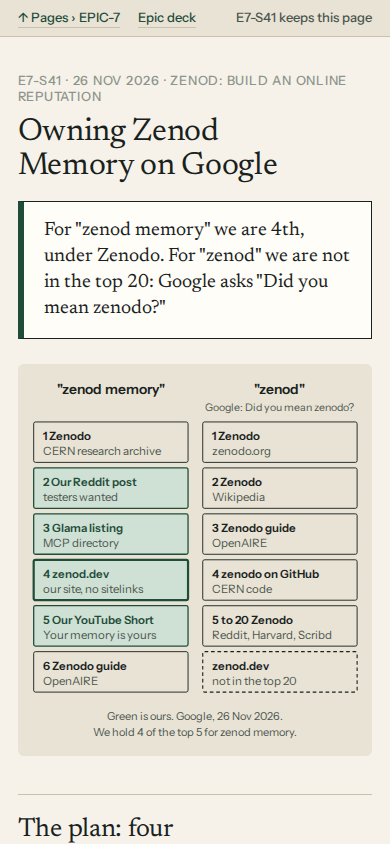
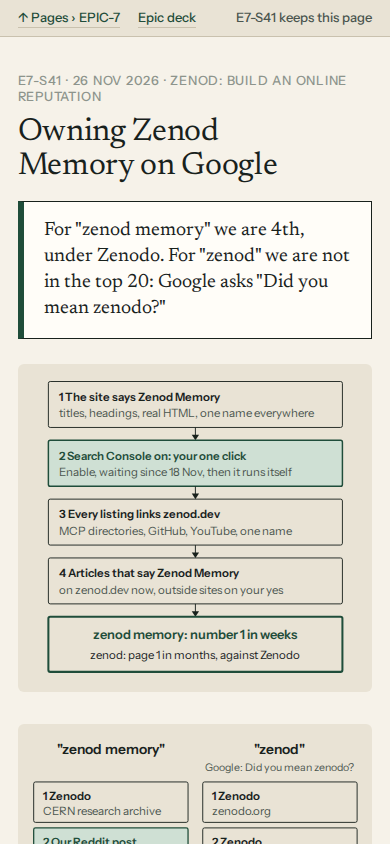
E7-S41: plan picture first, short steps, card source and decision tightened
Run: run_8029ae52-0fcd-494d-bfc3-eb10792b6537

Changed region(s): [[0.0615, 0.4313, 0.9231, 1.0]]

diff --git a/docs/evidence/e7-s41/page.html b/docs/evidence/e7-s41/page.html
@@ -14,6 +14,21 @@
 <header class="ps-head"><p class="ps-kicker">E7-S41 · 26 Nov 2026 · Zenod: Build an online reputation</p><h1>Owning Zenod Memory on Google</h1></header>
 <p class="ps-punch">For "zenod memory" we are 4th, under Zenodo. For "zenod" we are not in the top 20: Google asks "Did you mean zenodo?"</p>
 
+<section id="plan">
+<figure class="ps-diagram"><div style="max-width:560px;margin:0 auto">
+<svg viewBox="0 0 360 330" role="img" aria-label="Plan in a line: 1 site says Zenod Memory, 2 Search Console on, your one click, 3 every listing links zenod.dev, 4 articles that say Zenod Memory, then zenod memory number 1 in weeks and zenod page 1 in months." style="max-width:100%;height:auto;display:block;font-family:inherit">
+<g font-size="12.5">
+<rect x="20" y="6" width="320" height="50" rx="2" fill="none" stroke="currentColor" stroke-width="1"/><text x="32" y="27" font-weight="600" fill="currentColor">1  The site says Zenod Memory</text><text x="32" y="45" fill="var(--muted,#8a8378)">titles, headings, real HTML, one name everywhere</text>
+<path d="M180 56 V68" stroke="currentColor"/><path d="M176 64 L180 70 L184 64" fill="currentColor"/>
+<rect x="20" y="70" width="320" height="50" rx="2" fill="var(--accent-soft,#e3ece6)" stroke="var(--accent,#2f5d4a)" stroke-width="1.6"/><text x="32" y="91" font-weight="600" fill="var(--accent,#2f5d4a)">2  Search Console on: your one click</text><text x="32" y="109" fill="var(--muted,#8a8378)">Enable, waiting since 18 Nov, then it runs itself</text>
+<path d="M180 120 V132" stroke="currentColor"/><path d="M176 128 L180 134 L184 128" fill="currentColor"/>
+<rect x="20" y="134" width="320" height="50" rx="2" fill="none" stroke="currentColor" stroke-width="1"/><text x="32" y="155" font-weight="600" fill="currentColor">3  Every listing links zenod.dev</text><text x="32" y="173" fill="var(--muted,#8a8378)">MCP directories, GitHub, YouTube, one name</text>
+<path d="M180 184 V196" stroke="currentColor"/><path d="M176 192 L180 198 L184 192" fill="currentColor"/>
+<rect x="20" y="198" width="320" height="50" rx="2" fill="none" stroke="currentColor" stroke-width="1"/><text x="32" y="219" font-weight="600" fill="currentColor">4  Articles that say Zenod Memory</text><text x="32" y="237" fill="var(--muted,#8a8378)">on zenod.dev now, outside sites on your yes</text>
+<path d="M180 248 V260" stroke="currentColor"/><path d="M176 256 L180 262 L184 256" fill="currentColor"/>
+<rect x="20" y="262" width="320" height="60" rx="2" fill="none" stroke="var(--accent,#2f5d4a)" stroke-width="2.2"/><text x="180" y="286" text-anchor="middle" font-weight="600" font-size="14" fill="var(--accent,#2f5d4a)">zenod memory: number 1 in weeks</text><text x="180" y="308" text-anchor="middle" fill="currentColor">zenod: page 1 in months, against Zenodo</text>
+</g></svg></div></figure>
+</section>
 <section id="answer">
 <figure class="ps-diagram"><div style="max-width:560px;margin:0 auto">
 <svg viewBox="0 0 360 400" role="img" aria-label="Google today. zenod memory: 1 Zenodo, 2 our Reddit tester post, 3 our Glama listing, 4 zenod.dev, 5 our YouTube Short. zenod: Google suggests zenodo, top six all Zenodo, zenod.dev not in the top 20." style="max-width:100%;height:auto;display:block;font-family:inherit">
@@ -40,39 +55,37 @@
 <text x="180" y="392" text-anchor="middle" font-size="12" fill="var(--muted,#8a8378)">We hold 4 of the top 5 for zenod memory.</text>
 </svg></div></figure>
 </section>
-
-<section id="plan">
-<h2>The plan: four moves, one needs you</h2>
-<figure class="ps-diagram"><div style="max-width:560px;margin:0 auto">
-<svg viewBox="0 0 360 330" role="img" aria-label="Plan in a line: 1 site says Zenod Memory, 2 Search Console on, your one click, 3 every listing links zenod.dev, 4 articles that say Zenod Memory, then zenod memory number 1 in weeks and zenod page 1 in months." style="max-width:100%;height:auto;display:block;font-family:inherit">
-<g font-size="12.5">
-<rect x="20" y="6" width="320" height="50" rx="2" fill="none" stroke="currentColor" stroke-width="1"/><text x="32" y="27" font-weight="600" fill="currentColor">1  The site says Zenod Memory</text><text x="32" y="45" fill="var(--muted,#8a8378)">titles, headings, real HTML, one name everywhere</text>
-<path d="M180 56 V68" stroke="currentColor"/><path d="M176 64 L180 70 L184 64" fill="currentColor"/>
-<rect x="20" y="70" width="320" height="50" rx="2" fill="var(--accent-soft,#e3ece6)" stroke="var(--accent,#2f5d4a)" stroke-width="1.6"/><text x="32" y="91" font-weight="600" fill="var(--accent,#2f5d4a)">2  Search Console on: your one click</text><text x="32" y="109" fill="var(--muted,#8a8378)">Enable, waiting since 18 Nov, then it runs itself</text>
-<path d="M180 120 V132" stroke="currentColor"/><path d="M176 128 L180 134 L184 128" fill="currentColor"/>
-<rect x="20" y="134" width="320" height="50" rx="2" fill="none" stroke="currentColor" stroke-width="1"/><text x="32" y="155" font-weight="600" fill="currentColor">3  Every listing links zenod.dev</text><text x="32" y="173" fill="var(--muted,#8a8378)">MCP directories, GitHub, YouTube, one name</text>
-<path d="M180 184 V196" stroke="currentColor"/><path d="M176 192 L180 198 L184 192" fill="currentColor"/>
-<rect x="20" y="198" width="320" height="50" rx="2" fill="none" stroke="currentColor" stroke-width="1"/><text x="32" y="219" font-weight="600" fill="currentColor">4  Articles that say Zenod Memory</text><text x="32" y="237" fill="var(--muted,#8a8378)">on zenod.dev now, outside sites on your yes</text>
-<path d="M180 248 V260" stroke="currentColor"/><path d="M176 256 L180 262 L184 256" fill="currentColor"/>
-<rect x="20" y="262" width="320" height="60" rx="2" fill="none" stroke="var(--accent,#2f5d4a)" stroke-width="2.2"/><text x="180" y="286" text-anchor="middle" font-weight="600" font-size="14" fill="var(--accent,#2f5d4a)">zenod memory: number 1 in weeks</text><text x="180" y="308" text-anchor="middle" fill="currentColor">zenod: page 1 in months, against Zenodo</text>
-</g></svg></div></figure>
-
+<section id="steps-list">
+<h2>The steps</h2>
 <div class="ps-body">
 <div class="wrap"><table id="steps">
-<tr><th>Step</th><th>Who, effort</th><th>What it moves</th></tr>
-<tr><td><b>1a</b> Every page title and heading says "Zenod Memory", for example "Zenod Memory: voice notes and AI chats, kept in your Drive". One name, as you asked.</td><td><span class="tag team">Team, half a day, easy to undo</span></td><td>Matches both searches word for word.</td></tr>
-<tr><td><b>1b</b> Serve each page as real HTML. Today Google gets a 3 KB shell with no heading, and the words load later by script.</td><td><span class="tag team">Team, 1 day, easy to undo</span></td><td>Google reads every word on the first visit.</td></tr>
-<tr><td><b>1c</b> Fix /pricing: it calls itself the home page, so Google drops it. Add it to the sitemap. Shorten the home description from 370 to about 155 characters.</td><td><span class="tag team">Team, 1 hour, easy to undo</span></td><td>One more page in Google, a clean snippet.</td></tr>
-<tr><td><b>1d</b> Tell Google who Zenod Memory is: one "organization" record naming GitHub, Glama, the MCP Registry, YouTube and Reddit as ours.</td><td><span class="tag team">Team, 1 hour, easy to undo</span></td><td>Google can tie our pages together and stop mixing us with Zenodo.</td></tr>
-<tr><td><b>2</b> Search Console. Press Enable on two free Google switches, ask E46-A42, waiting since 18 Nov. Then the team's script verifies zenod.dev, sends the sitemap and reads what people search, every day.</td><td><span class="tag jordi">You, 2 minutes</span></td><td>Faster indexing, and real numbers instead of guesses.</td></tr>
-<tr><td><b>3a</b> Rename our own listings to "Zenod Memory" with a link to zenod.dev: GitHub, Glama, MCP Registry, YouTube.</td><td><span class="tag team">Team, 2 hours, easy to undo</span></td><td>These already rank 3rd and 5th. Each one points back to us.</td></tr>
-<tr><td><b>3b</b> New directory listings, the next reputation step already drafted: mcpservers.org, Docker MCP Catalog, AIBase.</td><td><span class="tag jordi">Your yes, it publishes</span></td><td>More pages named Zenod that link to us.</td></tr>
-<tr><td><b>4a</b> Three pages on zenod.dev: "What is Zenod Memory", "Zenod Memory vs Basic Memory vs Mem0", "Zenod is not Zenodo".</td><td><span class="tag team">Team, 1 day, easy to undo</span></td><td>Answers the searches people actually type. AI assistants read them too.</td></tr>
-<tr><td><b>4b</b> Outside articles: a Show HN, a dev.to post, a Product Hunt page, all under your name.</td><td><span class="tag jordi">You: your name, your accounts</span></td><td>The strongest links. This is what moves the bare word "zenod" over time.</td></tr>
-<tr><td><b>5</b> Rerun these six searches every week and show the positions on this page.</td><td><span class="tag team">Team, 1 hour, free</span></td><td>We see if it works.</td></tr>
+<tr><th>Step</th><th>Who</th></tr>
+<tr><td><b>1a</b> Every title and heading says Zenod Memory</td><td><span class="tag team">Team, half a day</span></td></tr>
+<tr><td><b>1b</b> Pages served as real HTML, not script shells</td><td><span class="tag team">Team, 1 day</span></td></tr>
+<tr><td><b>1c</b> Pricing page fixed and in the sitemap, shorter home snippet</td><td><span class="tag team">Team, 1 hour</span></td></tr>
+<tr><td><b>1d</b> One record telling Google which profiles are ours</td><td><span class="tag team">Team, 1 hour</span></td></tr>
+<tr><td><b>2</b> Search Console: press Enable, ask E46-A42</td><td><span class="tag jordi">You, 2 minutes</span></td></tr>
+<tr><td><b>3a</b> Our own listings renamed Zenod Memory, linking zenod.dev</td><td><span class="tag team">Team, 2 hours</span></td></tr>
+<tr><td><b>3b</b> New directory listings, already drafted</td><td><span class="tag jordi">Your yes</span></td></tr>
+<tr><td><b>4a</b> Three pages: what it is, versus Mem0, not Zenodo</td><td><span class="tag team">Team, 1 day</span></td></tr>
+<tr><td><b>4b</b> Show HN, dev.to and Product Hunt under your name</td><td><span class="tag jordi">You</span></td></tr>
+<tr><td><b>5</b> Rerun the six searches every week, here</td><td><span class="tag team">Team, 1 hour</span></td></tr>
 </table></div>
+<p>Every team step is easy to undo. Your three: one click, one yes, your name.</p>
+<details><summary>What each step moves</summary>
+<ul>
+<li>1a matches both searches word for word, the name you asked for.</li>
+<li>1b: Google gets a 3 KB page with no heading today, the words load later.</li>
+<li>1c: /pricing calls itself the home page, so Google drops it.</li>
+<li>1d ties GitHub, Glama, the MCP Registry, YouTube and Reddit to us.</li>
+<li>2: the team script then verifies, sends the sitemap and reads searches daily.</li>
+<li>3a: Glama ranks 3rd and YouTube 5th already. Each would point back to us.</li>
+<li>3b: mcpservers.org, Docker MCP Catalog and AIBase. Listing publishes, so it needs you.</li>
+<li>4a answers what people type. AI assistants read these pages too.</li>
+<li>4b brings the strongest links. That moves the bare word zenod over months.</li>
+</ul></details>
+<details><summary>Six searches today, and the name clash</summary>
 
-<h2 id="searches">Six searches today</h2>
 <div class="wrap"><table>
 <tr><th>Search</th><th>zenod.dev</th><th>Number 1 is</th></tr>
 <tr><td>zenod</td><td>not in the top 20</td><td>Zenodo, CERN. Google suggests "zenodo"</td></tr>
@@ -85,7 +98,8 @@
 <p>What Google shows for us: the title "Zenod — a digital memory that organizes itself" and the line "A digital memory that organizes itself. Send voice notes on WhatsApp, connect all your agents over MCP…". There are no sitelinks.</p>
 <p>Names close to ours: Zenodo, CERN's research archive, is huge, and Google treats "zenod" as a typo of it. Others are Zenode.ai, Zeno AI, Zeno ML, ZenDoc and a TikTok account called zenod.films. That is why "Zenod Memory" is the name to own first.</p>
 
-<h2 id="site">What zenod.dev gives Google today</h2>
+</details>
+<details id="site"><summary>What zenod.dev gives Google today</summary>
 <div class="wrap"><table>
 <tr><th>Item</th><th>Today</th></tr>
 <tr><td>robots.txt</td><td>✓ allows everything, points to the sitemap</td></tr>
@@ -98,6 +112,7 @@
 <tr><td>Search Console</td><td>A Google verification record is in zenod.dev's DNS, so someone verified it once. The team's daily reader is off: Google refuses it until the two switches are on, last checked 25 Nov 23:50Z</td></tr>
 </table></div>
 <p>How we read it: Google through the team browser, from a server in Germany, signed out, on 26 Nov around 00:10Z. Positions move by country and person. No accounts were made and nothing was posted.</p>
+</details>
 </div>
 </section>
 <p class="ps-foot">E7-S41 keeps this page · one shared page shell (E75-S5)</p>

diff --git a/docs/cards/E7-S41.md b/docs/cards/E7-S41.md
@@ -4,22 +4,22 @@ spine: EPIC-7-REAL-USER-TEST.md
 about: Zenod on Google
 name: Owning Zenod Memory on Google
 title: A plan was written to put Zenod Memory first on Google.
-source: Jordi on 25 Nov, "how can we own Znode in Google and Znode memory? Do we have a plan for that?" via the EpicSocial desk
+source: Jordi, 25 Nov: "how can we own Znode in Google and Znode memory? Do we have a plan for that?"
 goal: Someone searching zenod or zenod memory finds us first.
 delivered:
   - ✓ Zenod memory ranks 4th today. We hold 4 of the top 5.
   - ✓ Bare zenod is not in the top 20. Google suggests Zenodo.
   - ✓ The plan has ten steps. Three need you, the team does seven.
 evidence: [Where we rank and the plan](http://vps3.taild81fbb.ts.net:9960/#plan)
-look: The four moves, then the steps table with who does each.
+look: The four moves, then the steps with who does each.
 screenshot: ../evidence/e7-s41/plan-1280.png
 after: The team does its seven steps and reruns the six searches weekly.
 next:
-  - "start: Site says Zenod Memory with real HTML, a fixed pricing page and three new pages"
+  - "start: Site says Zenod Memory, with real HTML and three new pages"
   - "start: Weekly rerun of the six Google searches"
-decision: Do we start this plan? We recommend yes, and pressing Enable for Search Console.
+decision: Do we start this plan? We recommend yes, the team starts its seven steps.
 options:
-  - "Yes: the team starts its seven steps"
+  - "Yes: the team starts its seven steps. Enable stays a separate ask"
   - "No: park it"
 confirm: yes — only Jordi can say whether this plan is the one he wants
 ---
